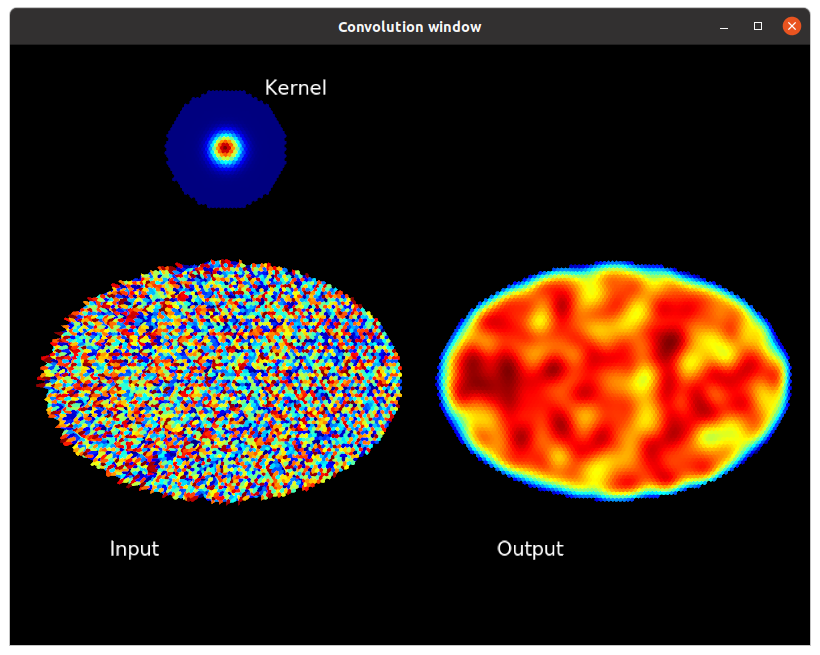
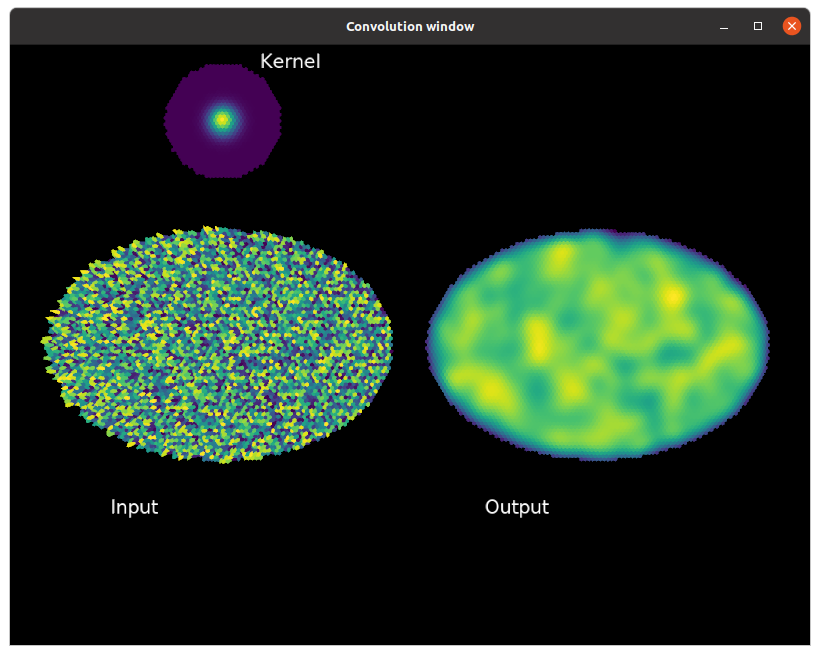
Colour map updates, screenshot updates

diff --git a/examples/convolve.cpp b/examples/convolve.cpp
@@ -21,6 +21,7 @@ int main()
 
     morph::Visual v(800,600,"Convolution window");
     v.zNear = 0.001;
+    v.backgroundBlack();
     v.setSceneTransZ (-3.0f);
 
     // Create an elliptical hexgrid for the input/output domains
@@ -73,6 +74,7 @@ int main()
     morph::Vector<float, 3> offset = { -0.5, 0.0, 0.0 };
     morph::HexGridVisual<float>* hgv = new morph::HexGridVisual<float>(v.shaderprog, v.tshaderprog, &hg, offset);
     hgv->setScalarData (&data);
+    hgv->cm.setType(morph::ColourMapType::Viridis);
     hgv->addLabel ("Input", { -0.3f, -0.45f, 0.01f }, morph::colour::white);
     hgv->finalize();
     unsigned int gridId = v.addVisualModel (hgv);
@@ -80,6 +82,7 @@ int main()
     offset[1] += 0.6f;
     morph::HexGridVisual<float>* kgv = new morph::HexGridVisual<float>(v.shaderprog, v.tshaderprog, &kernel, offset);
     kgv->setScalarData (&kerneldata);
+    kgv->cm.setType(morph::ColourMapType::Viridis);
     kgv->finalize();
     unsigned int gridId1 = v.addVisualModel (kgv);
     std::cout << "gridId1 is " << gridId1 << std::endl;
@@ -91,6 +94,7 @@ int main()
     offset[0] += 1.0f;
     morph::HexGridVisual<float>* rgv = new morph::HexGridVisual<float>(v.shaderprog, v.tshaderprog, &hg, offset);
     rgv->setScalarData (&convolved);
+    rgv->cm.setType(morph::ColourMapType::Viridis);
     rgv->finalize();
     rgv->addLabel ("Output", { -0.3f, -0.45f, 0.01f }, morph::colour::white);
     v.addVisualModel (rgv);

diff --git a/examples/quiver.cpp b/examples/quiver.cpp
@@ -57,7 +57,7 @@ int main (int argc, char** argv)
             }
         }
 
-        unsigned int visId = v.addVisualModel (new morph::QuiverVisual<float> (v.shaderprog, &coords, offset, &quivs, morph::ColourMapType::Jet));
+        unsigned int visId = v.addVisualModel (new morph::QuiverVisual<float> (v.shaderprog, &coords, offset, &quivs, morph::ColourMapType::MonochromeGreen));
 
         std::cout << "Added Visual with visId " << visId << std::endl;
 
